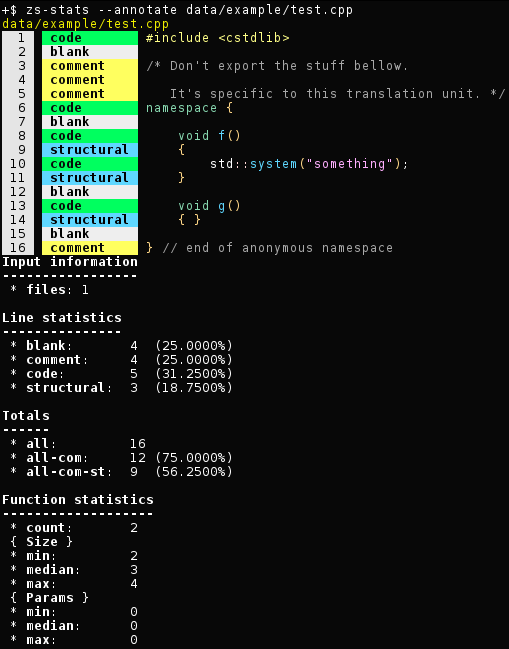
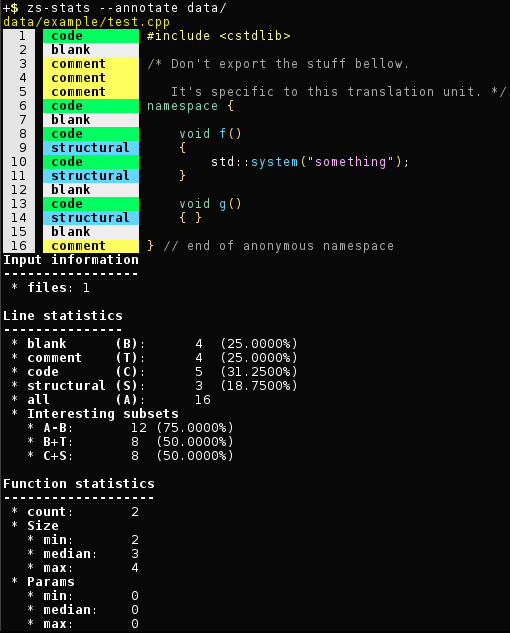
Improve output of zs-stats
How it's formatted and also what information is shows.

diff --git a/tools/stats/stats.cpp b/tools/stats/stats.cpp
@@ -74,7 +74,7 @@ operator<<(std::ostream &os, const Header &val)
 inline std::ostream &
 operator<<(std::ostream &os, const SubHeader &val)
 {
-    return os << " { " << (decor::bold << val.data) << " }\n";
+    return os << " * " << (decor::bold << val.data) << '\n';
 }
 inline std::ostream &
 operator<<(std::ostream &os, const Bullet &val)
@@ -376,21 +376,26 @@ FileProcessor::printReport() const
     std::cout << Header { "Input information" }
               << Bullet { "files" } << files << "\n\n";
 
-    int lines = blank + comment + code + structural;
+    int nonBlank = comment + code + structural;
+    int lines = blank + nonBlank;
     std::cout << Header { "Line statistics" }
-              << Bullet { "blank" }      << Part { blank, lines }      << '\n'
-              << Bullet { "comment" }    << Part { comment, lines }    << '\n'
-              << Bullet { "code" }       << Part { code, lines }       << '\n'
-              << Bullet { "structural" } << Part { structural, lines } << '\n'
-              << '\n';
-
-    std::cout << Header { "Totals" }
-              << Bullet { "all" }
+              << Bullet { "blank      (B)" }
+                 << Part { blank, lines } << '\n'
+              << Bullet { "comment    (T)" }
+                 << Part { comment, lines } << '\n'
+              << Bullet { "code       (C)" }
+                 << Part { code, lines } << '\n'
+              << Bullet { "structural (S)" }
+                 << Part { structural, lines } << '\n'
+              << Bullet { "all        (A)" }
                  << Count { lines } << '\n'
-              << Bullet { "all-com" }
-                 << Part { lines - comment, lines } << '\n'
-              << Bullet { "all-com-st" }
-                 << Part { lines - comment - structural, lines } << '\n'
+              << SubHeader { "Interesting subsets" }
+              << "  " << Bullet { "A-B" }
+                 << Part { nonBlank, lines } << '\n'
+              << "  " << Bullet { "B+T" }
+                 << Part { blank + comment, lines } << '\n'
+              << "  " << Bullet { "C+S" }
+                 << Part { nonBlank - comment, lines } << '\n'
               << '\n';
 
     if (!funcSizes.isEmpty()) {
@@ -398,18 +403,18 @@ FileProcessor::printReport() const
                   << Bullet { "count" }
                      << Count { funcSizes.getSampleSize() } << '\n'
                   << SubHeader { "Size" }
-                  << Bullet { "min" }
+                  << "  " << Bullet { "min" }
                      << Count { funcSizes.getMin() } << '\n'
-                  << Bullet { "median" }
+                  << "  " << Bullet { "median" }
                      << Count { funcSizes.getMedian() } << '\n'
-                  << Bullet { "max" }
+                  << "  " << Bullet { "max" }
                      << Count { funcSizes.getMax() } << '\n'
                   << SubHeader { "Params" }
-                  << Bullet { "min" }
+                  << "  " << Bullet { "min" }
                      << Count { paramCounts.getMin() } << '\n'
-                  << Bullet { "median" }
+                  << "  " << Bullet { "median" }
                      << Count { paramCounts.getMedian() } << '\n'
-                  << Bullet { "max" }
+                  << "  " << Bullet { "max" }
                      << Count { paramCounts.getMax() } << '\n';
     }
     // XXX: histograms?

diff --git a/tools/stats/README.md b/tools/stats/README.md
@@ -6,7 +6,7 @@
 
 `zs-stats` is a tool for counting:
  * lines of code
- * lines of code taken by functions (complete definition)
+ * size of functions (complete definition)
  * number of functions
  * number of parameters of functions
  * possibly other things in the future
